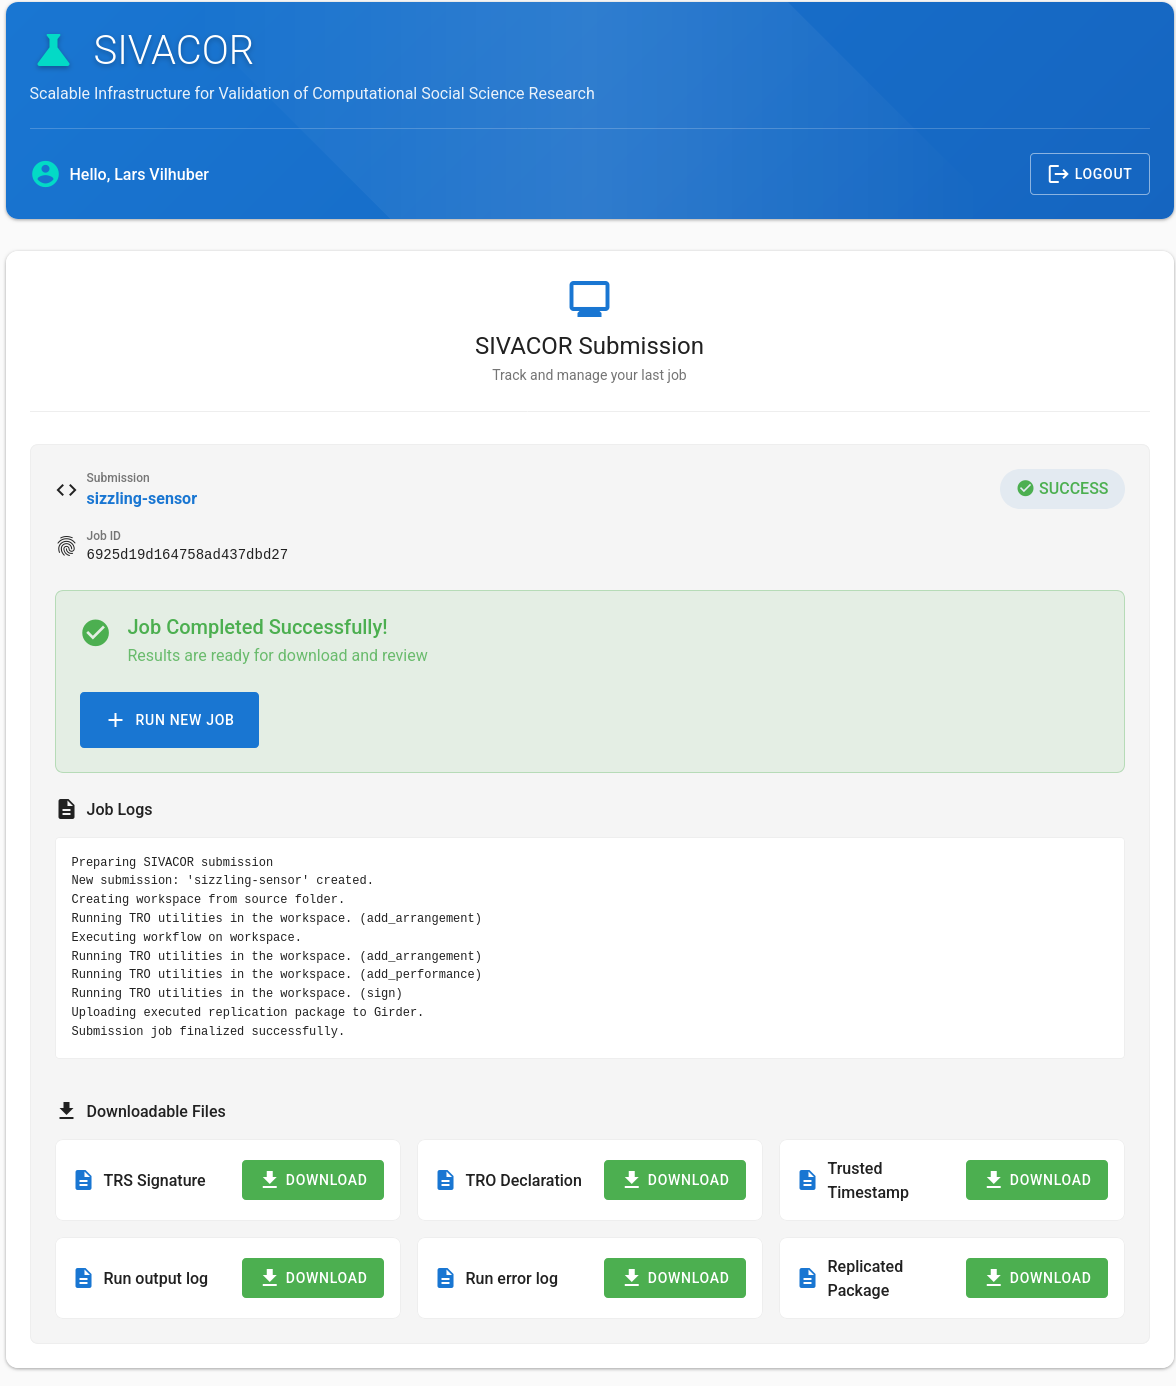
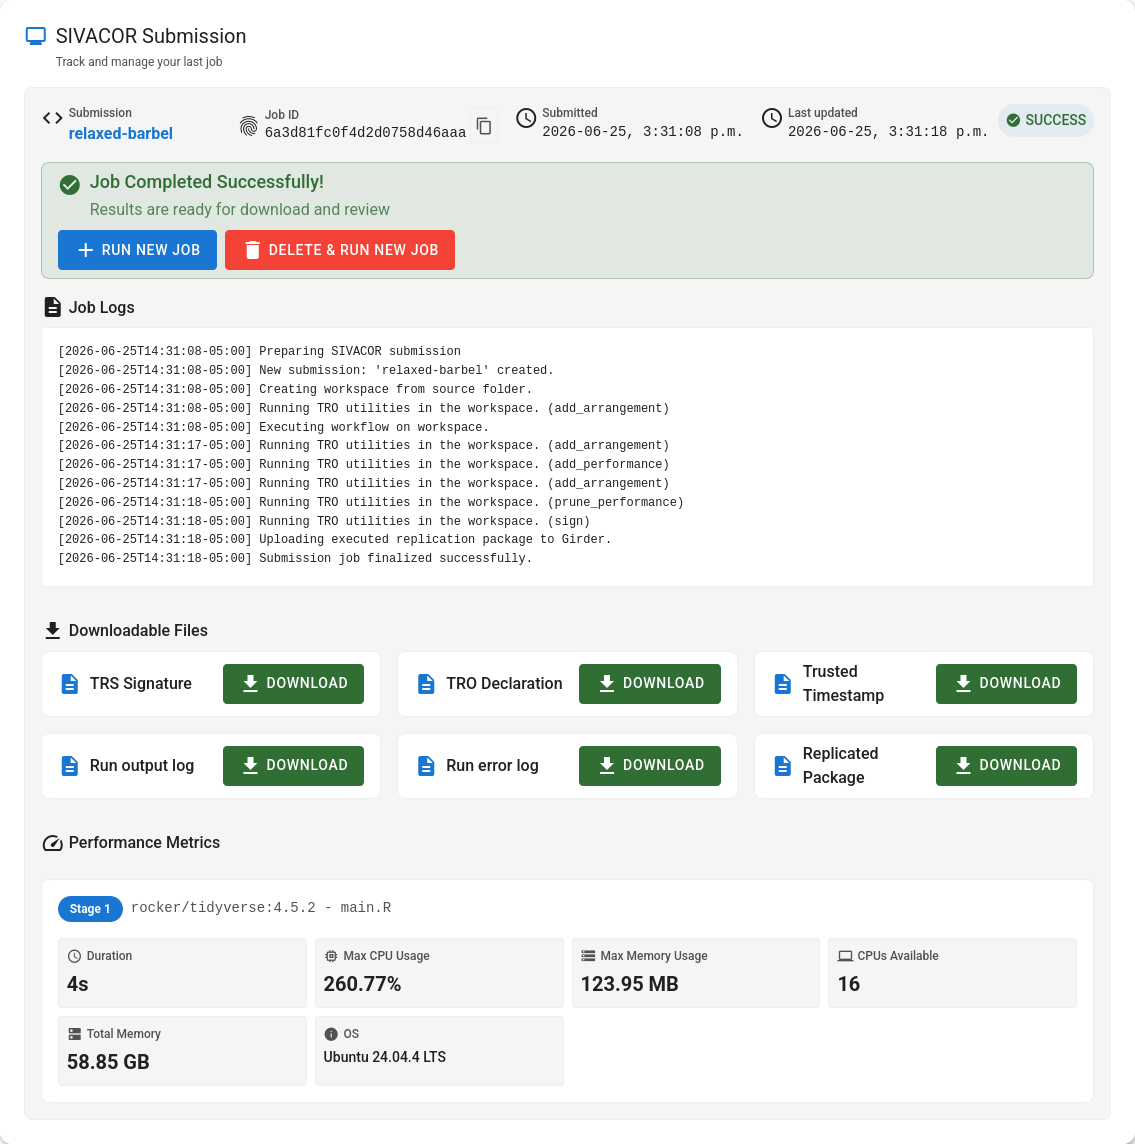
Clarifying deletion

diff --git a/docs/step4-download.md b/docs/step4-download.md
@@ -6,6 +6,14 @@ Once the job is finished, you will see the following page:
 
 You can now download the `Replicated Package`, a ZIP file that contains your originally submitted materials, the output files generated by your code, and the TRACE-related files (TRO Declaration, TRS Signature, Trusted Timestamp) that prove that this job was run on SIVACOR. 
 
+::::{warning}
+
+SIVACOR does not retain your results except for a very short period. If you start a new run, you immediately lose access to the previous results, which are then subject to deletion. If you want to retain any results, you **must** download them now.
+
+You can choose to not wait for the automated deletion jobs, and explicitly delete your results by clicking the `Delete & Run New Job` button on the job page.
+
+::::
+
 ::::{tip}
 
 You should provide the `Replicated Package` ZIP file to the journal where you are submitting your article.
